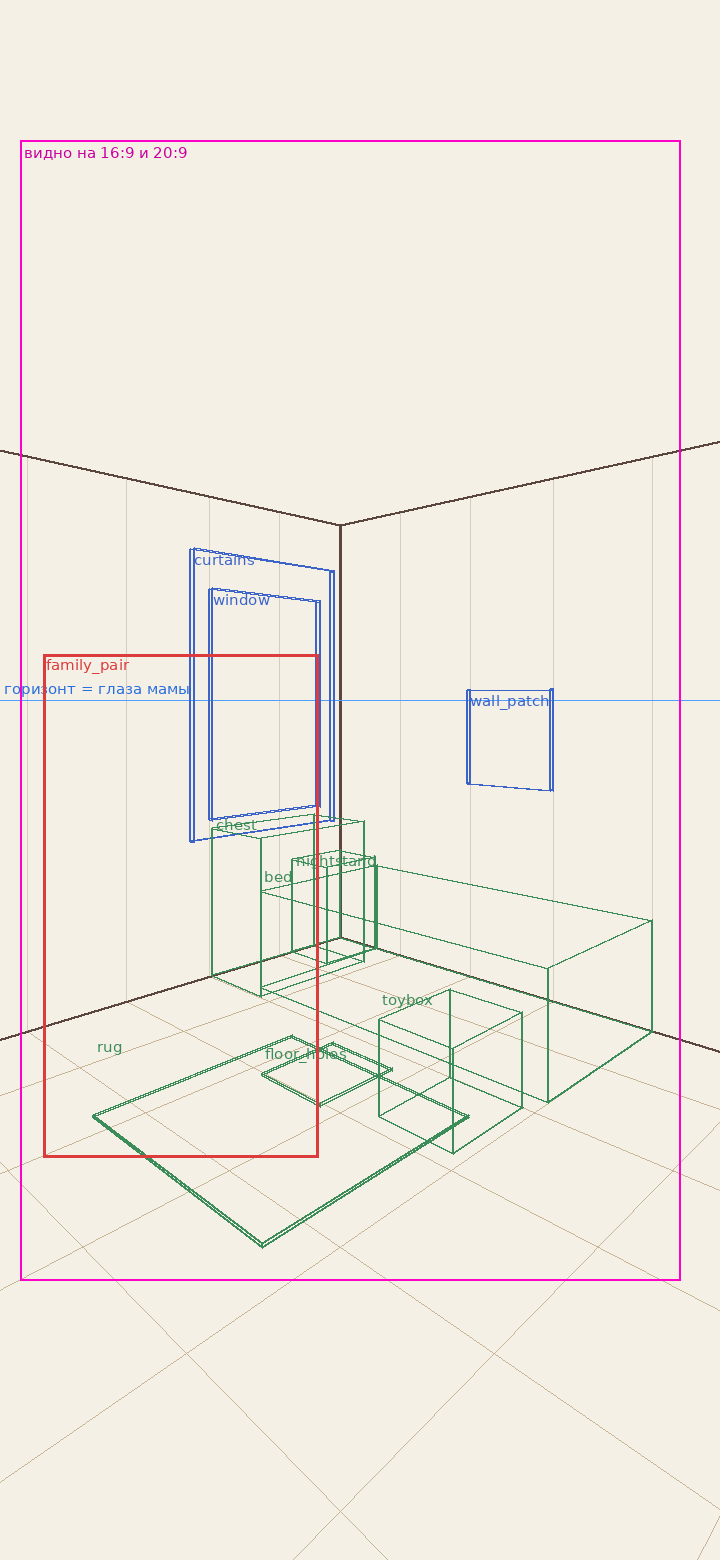
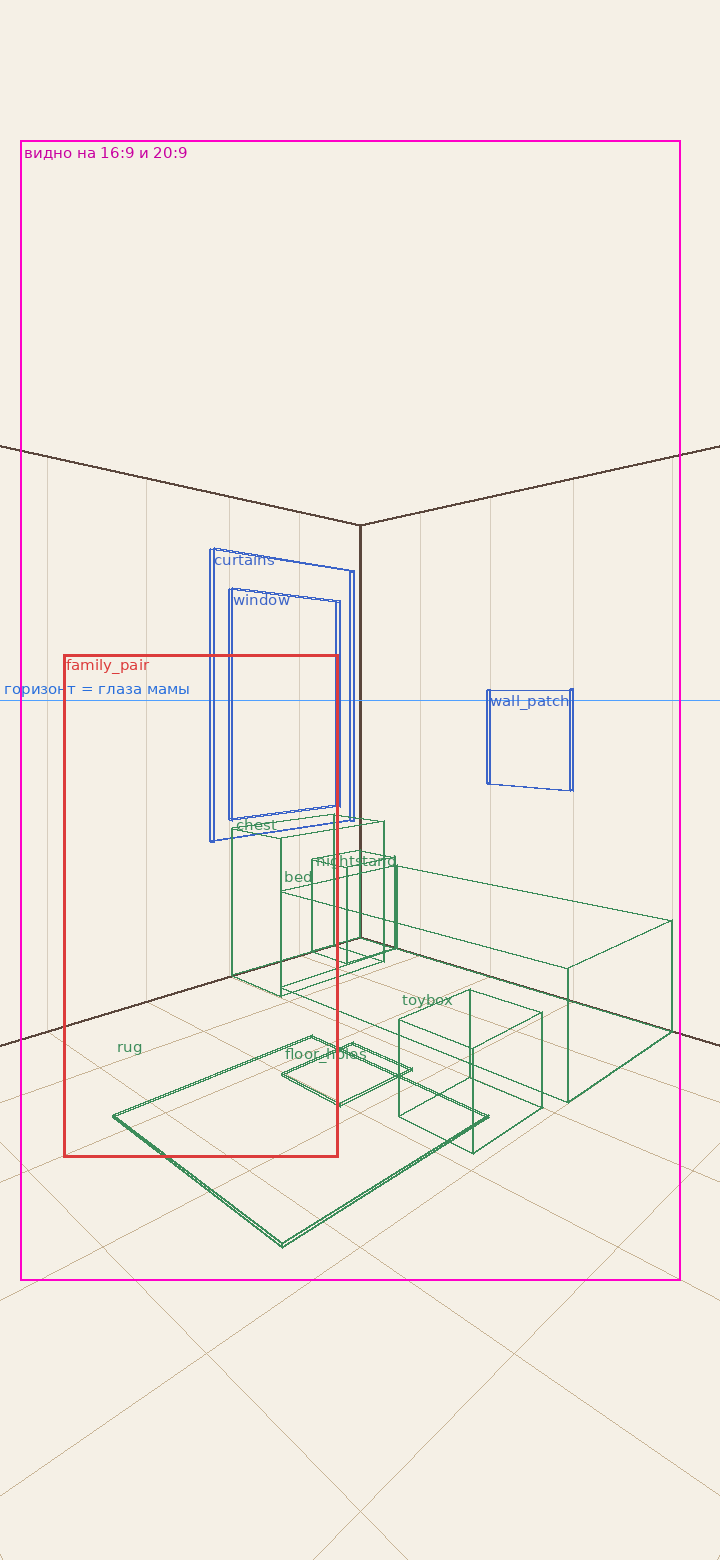
Warp tool: empty room background onto the planned camera
tools/warp_room.py maps each plane of a ChatGPT background (left and
right wall, floor, ceiling) with a homography from measured draft
points onto the room_planner camera; wallpaper, boards and skirting
stay as painted, the floor scale is solved so its edges come from the
draft, the ceiling becomes a smooth gradient of its own colours.
art/act1/room/pilot/background-warped.png: corner x=360, horizon 700,
junctions on the planned lines. Room corner back at x=360 (the 1.7 m
bed already fits); plan tables refreshed.

Claude-Session: https://claude.ai/code/session_01F17z6WKxwFhPVzmgaJQsyh

diff --git a/tools/warp_room.py b/tools/warp_room.py
@@ -1,0 +1,167 @@
+#!/usr/bin/env python3
+"""Приводит пустой фон комнаты (угол 45°) к точной камере из tools/room_planner.py.
+
+Фон состоит из четырёх плоскостей: левая стена, правая стена, пол, потолок. Для каждой строится
+перспективное преобразование «черновик → план» по опорным точкам, и каждый пиксель результата
+берётся из черновика через обратное преобразование своей плоскости. Обои, доски, плинтусы
+остаются нарисованными художником — меняется только перспектива.
+
+Опорные точки черновика (в пикселях файла): x угла, стык потолка и пола у угла и у обоих краёв:
+  python3 tools/warp_room.py room art/act1/room/pilot/background-draft-v1.png out.png \\
+      --draft '{"cx":720,"ceil_c":984,"floor_c":1848,"ceil_l":754,"floor_l":2018,"ceil_r":756,"floor_r":2022}'
+Стены: угол и края → угол и края плана. Пол и потолок: угол и две точки схода стен (доски и
+потолок сходятся в точки схода плана), масштаб вдоль диагонали — так, чтобы край пола у кромки
+кадра брался с кромки черновика.
+"""
+import json
+import math
+import sys
+
+import numpy as np
+from PIL import Image
+
+sys.path.insert(0, __file__.rsplit("/", 1)[0])
+import room_planner as rp  # noqa: E402
+
+
+def homography(src, dst):
+    """3×3 H: dst ~ H·src по четырём парам точек (DLT)."""
+    a = []
+    for (x, y), (u, v) in zip(src, dst):
+        a.append([x, y, 1, 0, 0, 0, -u * x, -u * y, -u])
+        a.append([0, 0, 0, x, y, 1, -v * x, -v * y, -v])
+    _, _, vt = np.linalg.svd(np.array(a, dtype=float))
+    h = vt[-1].reshape(3, 3)
+    return h / h[2, 2]
+
+
+def meet(p1, p2, q1, q2):
+    """Точка пересечения прямых p1p2 и q1q2."""
+    x1, y1 = p1
+    x2, y2 = p2
+    x3, y3 = q1
+    x4, y4 = q2
+    d = (x1 - x2) * (y3 - y4) - (y1 - y2) * (x3 - x4)
+    t = ((x1 - x3) * (y3 - y4) - (y1 - y3) * (x3 - x4)) / d
+    return (x1 + t * (x2 - x1), y1 + t * (y2 - y1))
+
+
+def _plane(tc, tvl, tvr, sc, svl, svr, tcx, scx, edge_y, t_edge, s_edge):
+    """Пол/потолок: угол и точки схода стен задают всё, кроме масштаба вдоль диагонали. Его
+    подбираем так, чтобы край стены плана у левой кромки кадра брался ровно с кромки черновика."""
+    def make(sy):
+        return homography([tc, tvl, tvr, (tcx, edge_y)], [sc, svl, svr, (scx, sy)])
+
+    def err(sy):
+        v = make(sy) @ np.array([t_edge[0], t_edge[1], 1.0])
+        return v[0] / v[2] - s_edge[0]
+    lo, hi = (sc[1] + 1.0, edge_y * 3.0 + 10.0) if edge_y > sc[1] else (-abs(sc[1]) * 3.0 - 10.0, sc[1] - 1.0)
+    best = None
+    for _ in range(200):
+        mid = (lo + hi) / 2.0
+        e = err(mid)
+        best = mid
+        if abs(e) < 0.01:
+            break
+        # ошибка меняется монотонно с масштабом: сдвигаем границу по знаку
+        if (e > 0) == (err(lo) > 0):
+            lo = mid
+        else:
+            hi = mid
+    return make(best)
+
+
+def plan_points(room, w, h):
+    """Опорные точки плана в пикселях файла w×h (сцена 720×1560)."""
+    k = w / rp.W
+    cx = room.get("cx", rp.CX)
+    P = lambda L, R, hh: tuple(c * k for c in rp.project(room, L, R, hh)[0])  # noqa: E731
+    # где стены уходят за левый/правый край: ищем длину стены, при которой x = 0 / W
+    def edge(side):
+        lo, hi = 0.0, 4.0
+        for _ in range(60):
+            mid = (lo + hi) / 2
+            x = P(mid, 0, 0)[0] if side == "L" else P(0, mid, 0)[0]
+            if (side == "L" and x > 0) or (side == "R" and x < w):
+                lo = mid
+            else:
+                hi = mid
+        return lo
+    eL, eR = edge("L"), edge("R")
+    pts = {
+        "cc": P(0, 0, rp.CEIL), "fc": P(0, 0, 0),
+        "cl": P(eL, 0, rp.CEIL), "fl": P(eL, 0, 0),
+        "cr": P(0, eR, rp.CEIL), "fr": P(0, eR, 0),
+        "cx": cx * k,
+    }
+    return pts
+
+
+def draft_points(d):
+    return {"cc": (d["cx"], d["ceil_c"]), "fc": (d["cx"], d["floor_c"]),
+            "cl": (0.0, d["ceil_l"]), "fl": (0.0, d["floor_l"]),
+            "cr": (d["w"], d["ceil_r"]), "fr": (d["w"], d["floor_r"]), "cx": d["cx"]}
+
+
+def warp(room_name, src_path, out_path, d):
+    img = Image.open(src_path).convert("RGB")
+    w, h = img.size
+    d = dict(d, w=float(w))
+    room = rp.ROOMS[room_name]
+    S = draft_points(d)
+    T = plan_points(room, w, h)
+    # точки схода стен (левая стена сходится вправо, правая — влево)
+    vS_l = meet(S["cc"], S["cl"], S["fc"], S["fl"])
+    vS_r = meet(S["cc"], S["cr"], S["fc"], S["fr"])
+    vT_l = meet(T["cc"], T["cl"], T["fc"], T["fl"])
+    vT_r = meet(T["cc"], T["cr"], T["fc"], T["fr"])
+    Hs = {
+        "left": homography([T["cc"], T["fc"], T["fl"], T["cl"]], [S["cc"], S["fc"], S["fl"], S["cl"]]),
+        "right": homography([T["cc"], T["fc"], T["fr"], T["cr"]], [S["cc"], S["fc"], S["fr"], S["cr"]]),
+        "floor": _plane(T["fc"], vT_l, vT_r, S["fc"], vS_l, vS_r, T["cx"], S["cx"], h, T["fl"], S["fl"]),
+        "ceil": _plane(T["cc"], vT_l, vT_r, S["cc"], vS_l, vS_r, T["cx"], S["cx"], 0.0, T["cl"], S["cl"]),
+    }
+    ys, xs = np.mgrid[0:h, 0:w].astype(float)
+    # плоскость каждого пикселя по линиям плана
+    def line_y(a, b, x):
+        return a[1] + (b[1] - a[1]) * (x - a[0]) / (b[0] - a[0])
+    left = xs < T["cx"]
+    ceil_y = np.where(left, line_y(T["cc"], T["cl"], xs), line_y(T["cc"], T["cr"], xs))
+    floor_y = np.where(left, line_y(T["fc"], T["fl"], xs), line_y(T["fc"], T["fr"], xs))
+    plane = np.where(ys < ceil_y, 3, np.where(ys > floor_y, 2, np.where(left, 0, 1)))
+    src = np.array(img, dtype=float)
+    out = np.zeros_like(src)
+    for i, name in enumerate(["left", "right", "floor", "ceil"]):
+        m = plane == i
+        if not m.any():
+            continue
+        H = Hs[name]
+        px, py = xs[m], ys[m]
+        den = H[2, 0] * px + H[2, 1] * py + H[2, 2]
+        sx = (H[0, 0] * px + H[0, 1] * py + H[0, 2]) / den
+        sy = (H[1, 0] * px + H[1, 1] * py + H[1, 2]) / den
+        sx = np.clip(sx, 0, w - 1.001)
+        sy = np.clip(sy, 0, h - 1.001)
+        x0 = np.floor(sx).astype(int)
+        y0 = np.floor(sy).astype(int)
+        fx = (sx - x0)[:, None]
+        fy = (sy - y0)[:, None]
+        c = (src[y0, x0] * (1 - fx) * (1 - fy) + src[y0, x0 + 1] * fx * (1 - fy)
+             + src[y0 + 1, x0] * (1 - fx) * fy + src[y0 + 1, x0 + 1] * fx * fy)
+        if name == "ceil":
+            # потолок почти однотонный: плавный градиент от цвета у молдинга к цвету верха черновика
+            near = src[int(S["cc"][1]) - 70:int(S["cc"][1]) - 30, int(w * 0.3):int(w * 0.7)].reshape(-1, 3).mean(axis=0)
+            far = src[:40].reshape(-1, 3).mean(axis=0)
+            t = np.clip((ceil_y[m] - py) / np.maximum(ceil_y[m], 1.0), 0.0, 1.0)[:, None]
+            c = near * (1 - t) + far * t
+        out[m] = c
+    Image.fromarray(np.clip(out, 0, 255).astype(np.uint8)).save(out_path)
+    return T
+
+
+if __name__ == "__main__":
+    if len(sys.argv) < 5 or sys.argv[4] != "--draft":
+        print(__doc__)
+        sys.exit(1)
+    t = warp(sys.argv[1], sys.argv[2], sys.argv[3], json.loads(sys.argv[5]))
+    print("plan points:", {k: (round(v[0]), round(v[1])) if isinstance(v, tuple) else round(v) for k, v in t.items()})

diff --git a/tools/room_planner.py b/tools/room_planner.py
@@ -28,7 +28,7 @@ S2 = math.sqrt(2.0)
 # person (фигура: ширина, высота).
 ROOMS = {
     "room": {
-        "title": "Маленькая комната", "size": [3.0, 3.0], "cx": 340,
+        "title": "Маленькая комната", "size": [3.0, 3.0],
         "items": [
             {"id": "window", "kind": "wall", "wall": "L", "at": [0.2, 1.0], "h": [0.85, 2.1], "note": "цель room_window: рама, стекло, подоконник 0,85"},
             {"id": "curtains", "kind": "wall", "wall": "L", "at": [0.08, 1.12], "h": [0.75, 2.3], "note": "шторы по краям окна"},

diff --git a/docs/LAYOUT_PLAN.md b/docs/LAYOUT_PLAN.md
@@ -25,7 +25,7 @@
 | видимая область | x 20–680, y 140–1280 (видно и на 16:9, и на 20:9) — всё важное внутри |
 | камера | глаз 1,5 м, смотрит на дальний угол, 45° к обеим стенам |
 | горизонт | y = 700 (глаза стоящей мамы всегда на этой линии) |
-| угол комнаты | вертикаль x = 360 (в маленькой комнате x = 340); пол в углу y = 938, потолок (2,6 м) в углу y = 526 |
+| угол комнаты | вертикаль x = 360; пол в углу y = 938, потолок (2,6 м) в углу y = 526 |
 | стены у краёв экрана | пол y = 1046, потолок y = 447 (x = 0 и x = 720); видно ~2,2 м каждой стены |
 | потолок/пол | линии от угла к краям — прямые; левая и правая стены симметричны |
 
@@ -68,16 +68,16 @@ y 724, у края 735. Фартук кухни 0,88–1,45 м: в углу y 79
 ## Маленькая комната
 | предмет | rect x,y,w,h | PNG 2x | px/м | ракурс | что это |
 |---|---|---|---|---|---|
-| window | 210, 589, 111, 232 | 222×464 | 158 | плоско на левой стене: вид 45° справа | цель room_window: рама, стекло, подоконник 0,85 |
-| curtains | 191, 549, 143, 293 | 286×586 | 158 | плоско на левой стене: вид 45° справа | шторы по краям окна |
-| chest | 213, 814, 152, 182 | 304×364 | 179 | у левой стены: фасад смотрит вправо-вниз, видны фасад и правый бок, 45° | комод под окном (низ за Витой — доступ кнопкой) |
-| nightstand | 293, 850, 83, 113 | 166×226 | 167 | в углу: видны два фасада под 45° | тумбочка с лампой в углу у изголовья |
-| bed | 261, 866, 391, 237 | 782×474 | 205 | у правой стены: фасад смотрит влево-вниз, видны фасад и левый бок, 45° | цель room_bed: кровать 1,7 м вдоль правой стены, изголовье к углу, матрас 0,5, спинки 0,9 |
-| wall_patch | 467, 690, 86, 101 | 172×202 | 158 | плоско на правой стене: вид 45° слева | цель room_wall: порванные обои над кроватью |
-| toybox | 379, 989, 143, 165 | 286×330 | 275 | посреди комнаты, стороны параллельны стенам: ребро к зрителю, 45° | ящик с игрушками у изножья |
-| rug | 94, 1036, 374, 211 | 748×422 | 279 | посреди комнаты, стороны параллельны стенам: ребро к зрителю, 45° | круглый коврик ~1 м |
-| floor_holes | 262, 1043, 130, 64 | 260×128 | 249 | посреди комнаты, стороны параллельны стенам: ребро к зрителю, 45° | цель room_floor (одна из дыр; остальные — такие же пятна по полу) |
-| family_pair | 43, 654, 275, 503 | 550×1006 | 305 | фигура | мама и Вита держатся за руки на коврике — картинки настроения family_mood0..3 (в первой комнате — «приехали») |
+| window | 230, 589, 111, 232 | 222×464 | 158 | плоско на левой стене: вид 45° справа | цель room_window: рама, стекло, подоконник 0,85 |
+| curtains | 211, 549, 143, 293 | 286×586 | 158 | плоско на левой стене: вид 45° справа | шторы по краям окна |
+| chest | 233, 814, 152, 182 | 304×364 | 179 | у левой стены: фасад смотрит вправо-вниз, видны фасад и правый бок, 45° | комод под окном (низ за Витой — доступ кнопкой) |
+| nightstand | 313, 850, 83, 113 | 166×226 | 167 | в углу: видны два фасада под 45° | тумбочка с лампой в углу у изголовья |
+| bed | 281, 866, 391, 237 | 782×474 | 205 | у правой стены: фасад смотрит влево-вниз, видны фасад и левый бок, 45° | цель room_bed: кровать 1,7 м вдоль правой стены, изголовье к углу, матрас 0,5, спинки 0,9 |
+| wall_patch | 487, 690, 86, 101 | 172×202 | 158 | плоско на правой стене: вид 45° слева | цель room_wall: порванные обои над кроватью |
+| toybox | 399, 989, 143, 165 | 286×330 | 275 | посреди комнаты, стороны параллельны стенам: ребро к зрителю, 45° | ящик с игрушками у изножья |
+| rug | 114, 1036, 374, 211 | 748×422 | 279 | посреди комнаты, стороны параллельны стенам: ребро к зрителю, 45° | круглый коврик ~1 м |
+| floor_holes | 282, 1043, 130, 64 | 260×128 | 249 | посреди комнаты, стороны параллельны стенам: ребро к зрителю, 45° | цель room_floor (одна из дыр; остальные — такие же пятна по полу) |
+| family_pair | 63, 654, 275, 503 | 550×1006 | 305 | фигура | мама и Вита держатся за руки на коврике — картинки настроения family_mood0..3 (в первой комнате — «приехали») |
 
 ## Кухня
 | предмет | rect x,y,w,h | PNG 2x | px/м | ракурс | что это |
@@ -163,3 +163,12 @@ y 724, у края 735. Фартук кухни 0,88–1,45 м: в углу y 79
 Источник размеров — только таблицы этого файла (перегенерируются `room_planner.py`); все rect внутри
 безопасной полосы x 20–680, низ не ниже y 1280. Кровать в маленькой комнате 1,7 м (иначе изножье
 уходит за x 680).
+
+## Фон по точной камере: `tools/warp_room.py`
+
+Генератор не держит точные линии. Пустой фон (две стены, пол, потолок) приводится к камере
+программно: каждая плоскость переносится перспективным преобразованием по опорным точкам
+черновика (x угла, стыки потолка и пола у угла и у краёв), обои и доски остаются авторскими,
+потолок — плавный градиент его цветов. Пример — `art/act1/room/pilot/background-warped.png`
+из `background-draft-v1.png` (замеры черновика в пикселях файла: угол 720, потолок 984/754/756,
+пол 1848/2018/2022).
